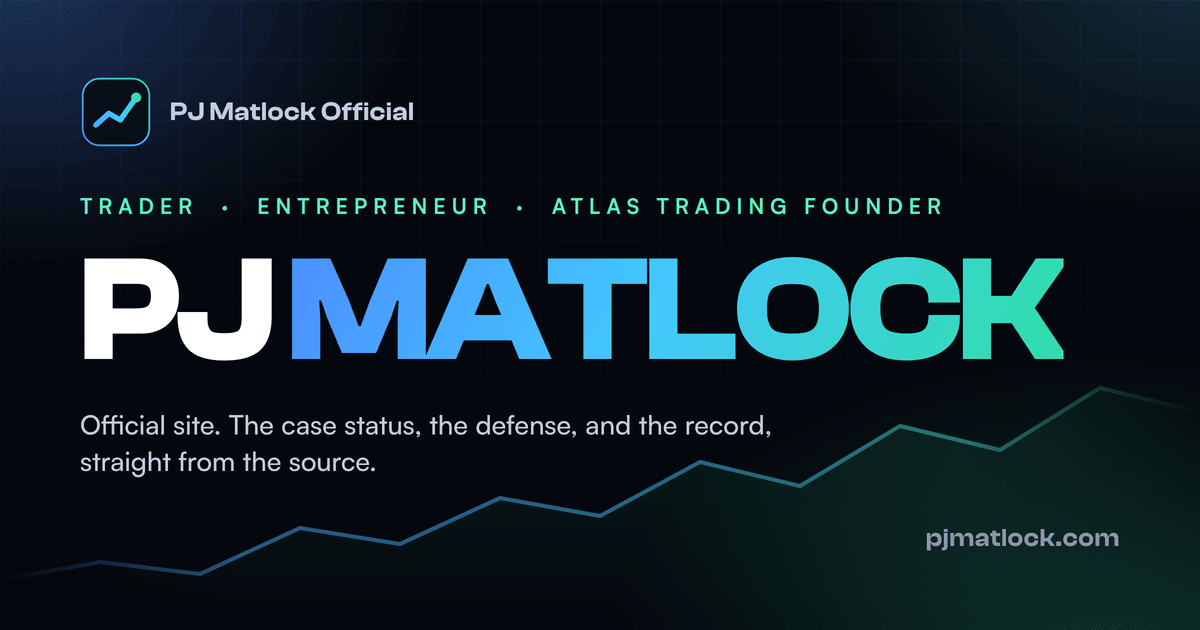
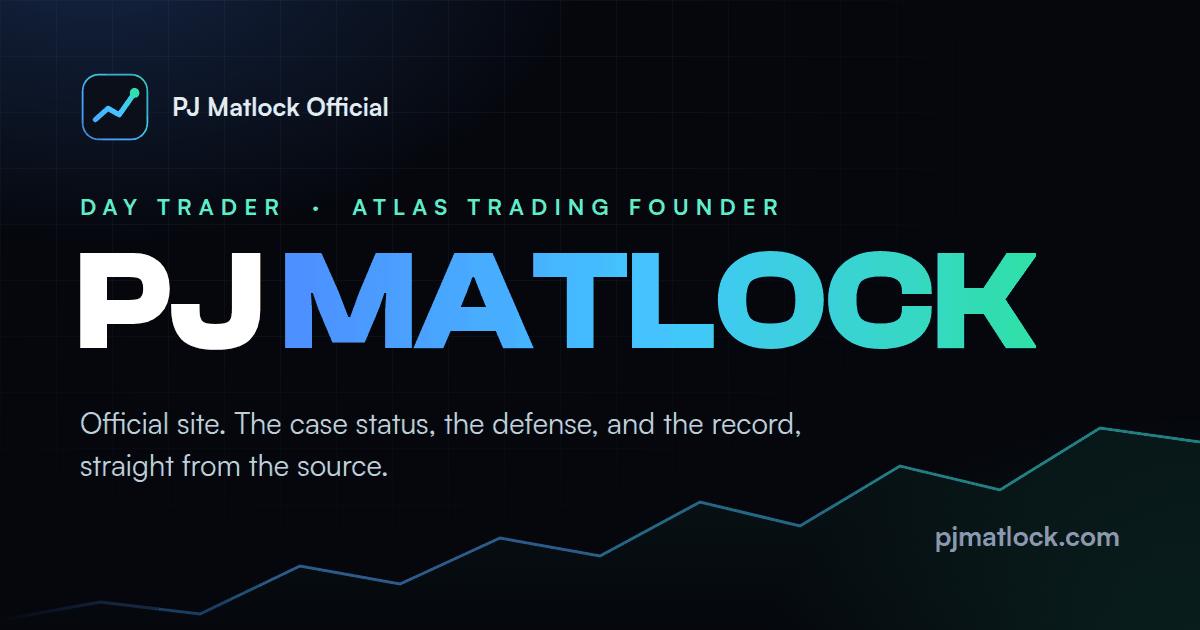
Tone down the About copy, drop the My Story timeline, refresh share image

diff --git a/index.html b/index.html
@@ -3,9 +3,9 @@
 <head>
   <meta charset="utf-8" />
   <script>document.documentElement.classList.add("js")</script>
-  <title>PJ Matlock - Trader, Entrepreneur, Atlas Trading Founder</title>
+  <title>PJ Matlock - Official Site</title>
   <meta name="viewport" content="width=device-width, initial-scale=1" />
-  <meta name="description" content="PJ Matlock is a trader, entrepreneur, and founder of the Atlas Trading community. Official site with case status updates, social links, and more." />
+  <meta name="description" content="PJ Matlock is a day trader and the founder of the Atlas Trading community. Case status updates and links." />
   <link rel="canonical" href="https://pjmatlock.com/" />
   <meta name="robots" content="index,follow,max-image-preview:large" />
   <meta name="theme-color" content="#05070d" />
@@ -20,21 +20,21 @@
 
   <!-- Open Graph -->
   <meta property="og:title" content="PJ Matlock - Official Site" />
-  <meta property="og:description" content="Trader, entrepreneur, and founder of Atlas Trading. Official site with case updates and links." />
+  <meta property="og:description" content="Day trader and founder of Atlas Trading. Case updates and links." />
   <meta property="og:url" content="https://pjmatlock.com/" />
   <meta property="og:type" content="website" />
   <meta property="og:site_name" content="PJ Matlock Official" />
-  <meta property="og:image" content="https://pjmatlock.com/assets/og.png" />
+  <meta property="og:image" content="https://pjmatlock.com/assets/og.png?v=20261014" />
   <meta property="og:image:width" content="1200" />
   <meta property="og:image:height" content="630" />
-  <meta property="og:image:alt" content="PJ Matlock - Trader, Entrepreneur, Atlas Trading Founder" />
+  <meta property="og:image:alt" content="PJ Matlock - Day Trader, Atlas Trading Founder" />
   <meta name="twitter:card" content="summary_large_image" />
   <meta name="twitter:site" content="@pjmatlock" />
   <meta name="twitter:creator" content="@pjmatlock" />
   <meta name="twitter:title" content="PJ Matlock - Official Site" />
-  <meta name="twitter:description" content="Trader, entrepreneur, and founder of Atlas Trading. Official site with case updates and links." />
-  <meta name="twitter:image" content="https://pjmatlock.com/assets/og.png" />
-  <meta name="twitter:image:alt" content="PJ Matlock - Trader, Entrepreneur, Atlas Trading Founder" />
+  <meta name="twitter:description" content="Day trader and founder of Atlas Trading. Case updates and links." />
+  <meta name="twitter:image" content="https://pjmatlock.com/assets/og.png?v=20261014" />
+  <meta name="twitter:image:alt" content="PJ Matlock - Day Trader, Atlas Trading Founder" />
 
   <!-- Person -->
   <script type="application/ld+json">
@@ -45,13 +45,13 @@
     "name":"Perry \"PJ\" Matlock",
     "alternateName":["PJ Matlock","Perry Matlock"],
     "url":"https://pjmatlock.com/",
-    "image":"https://pjmatlock.com/assets/og.png",
+    "image":"https://pjmatlock.com/assets/og.png?v=20261014",
     "sameAs":[
       "https://x.com/pjmatlock",
       "https://www.instagram.com/pjmatlock/",
       "https://discord.gg/atlastrading"
     ],
-    "description":"Trader, entrepreneur, and founder of the Atlas Trading community."
+    "description":"Day trader and founder of the Atlas Trading community."
   }
   </script>
 
@@ -69,8 +69,8 @@
 
   <link rel="preload" href="/assets/fonts/ClashDisplay-700.woff2" as="font" type="font/woff2" crossorigin />
   <link rel="preload" href="/assets/fonts/Satoshi-400.woff2" as="font" type="font/woff2" crossorigin />
-  <link rel="stylesheet" href="/assets/site.css?v=20261013b" />
-  <script src="/assets/site.js?v=20261013b" defer></script>
+  <link rel="stylesheet" href="/assets/site.css?v=20261014" />
+  <script src="/assets/site.js?v=20261014" defer></script>
 </head>
 <body>
   <a class="skip-link" href="#main">Skip to content</a>
@@ -121,7 +121,7 @@
       <div class="reveal in">
         <div class="eyebrow" style="justify-content:center">Official Site</div>
         <h1>PJ <span class="grad-text">Matlock</span></h1>
-        <p class="tagline">Trader, entrepreneur, and founder of the Atlas Trading community. The official record, in my own words.</p>
+        <p class="tagline">Day trader and founder of the Atlas Trading community. My side of the case, in my own words.</p>
         <div class="social-row">
           <a class="pill discord" href="https://discord.gg/atlastrading" target="_blank" rel="noopener">
             <svg aria-hidden="true" focusable="false" viewBox="0 0 24 24" fill="currentColor"><path d="M20.317 4.37a19.791 19.791 0 0 0-4.885-1.515.074.074 0 0 0-.079.037c-.21.375-.444.864-.608 1.25a18.27 18.27 0 0 0-5.487 0 12.64 12.64 0 0 0-.617-1.25.077.077 0 0 0-.079-.037A19.736 19.736 0 0 0 3.677 4.37a.07.07 0 0 0-.032.027C.533 9.046-.32 13.58.099 18.057a.082.082 0 0 0 .031.057 19.9 19.9 0 0 0 5.993 3.03.078.078 0 0 0 .084-.028 14.09 14.09 0 0 0 1.226-1.994.076.076 0 0 0-.041-.106 13.107 13.107 0 0 1-1.872-.892.077.077 0 0 1-.008-.128 10.2 10.2 0 0 0 .372-.292.074.074 0 0 1 .077-.01c3.928 1.793 8.18 1.793 12.062 0a.074.074 0 0 1 .078.01c.12.098.246.198.373.292a.077.077 0 0 1-.006.127 12.299 12.299 0 0 1-1.873.892.077.077 0 0 0-.041.107c.36.698.772 1.362 1.225 1.993a.076.076 0 0 0 .084.028 19.839 19.839 0 0 0 6.002-3.03.077.077 0 0 0 .032-.054c.5-5.177-.838-9.674-3.549-13.66a.061.061 0 0 0-.031-.03z"/></svg>
@@ -152,7 +152,6 @@
       <div class="reveal">
         <div class="eyebrow">About</div>
         <h2>Who I Am</h2>
-        <p class="section-desc">I built one of the largest retail trading communities on Discord from the ground up.</p>
       </div>
       <div class="feature-grid" style="margin-top:32px">
         <div class="card feature spot reveal" data-delay="0">
@@ -162,60 +161,13 @@
         </div>
         <div class="card feature spot reveal" data-delay=".1">
           <div class="ic"><svg aria-hidden="true" focusable="false" viewBox="0 0 24 24" fill="none" stroke="currentColor" stroke-width="2" stroke-linecap="round" stroke-linejoin="round"><path d="M17 21v-2a4 4 0 0 0-4-4H5a4 4 0 0 0-4 4v2"/><circle cx="9" cy="7" r="4"/><path d="M23 21v-2a4 4 0 0 0-3-3.87"/><path d="M16 3.13a4 4 0 0 1 0 7.75"/></svg></div>
-          <h3>Community Builder</h3>
-          <p>Atlas Trading grew into one of the largest retail trading communities on Discord, built around open discussion among independent traders. No hand-holding, no managed accounts.</p>
+          <h3>Atlas Trading</h3>
+          <p>A Discord community where traders talk through their own ideas. Everyone makes their own calls with their own money.</p>
         </div>
         <div class="card feature spot reveal" data-delay=".2">
           <div class="ic"><svg aria-hidden="true" focusable="false" viewBox="0 0 24 24" fill="none" stroke="currentColor" stroke-width="2" stroke-linecap="round" stroke-linejoin="round"><circle cx="12" cy="12" r="10"/><line x1="2" y1="12" x2="22" y2="12"/><path d="M12 2a15.3 15.3 0 0 1 4 10 15.3 15.3 0 0 1-4 10 15.3 15.3 0 0 1-4-10 15.3 15.3 0 0 1 4-10z"/></svg></div>
-          <h3>Entrepreneur</h3>
-          <p>Building products and businesses. I think for myself, take risks, and back it up with action.</p>
-        </div>
-      </div>
-    </section>
-
-    <!-- My Story -->
-    <section class="section tight timeline" aria-label="My story">
-      <div class="reveal">
-        <div class="eyebrow">My Story</div>
-        <h2>The Short Version</h2>
-      </div>
-      <div class="tl-items" style="margin-top:32px">
-        <div class="tl-track"><div class="tl-fill"></div></div>
-
-        <div class="tl-item green">
-          <div class="tl-dot"></div>
-          <div class="tl-card">
-            <div class="tl-date">Early Days</div>
-            <div class="tl-title">A Trader First</div>
-            <div class="tl-desc">I started day trading U.S. stocks with my own account. My own money, my own risk, my own decisions. That has never changed.</div>
-          </div>
-        </div>
-
-        <div class="tl-item">
-          <div class="tl-dot"></div>
-          <div class="tl-card">
-            <div class="tl-date">Atlas Trading</div>
-            <div class="tl-title">Building the Community</div>
-            <div class="tl-desc">I founded Atlas Trading and built it from the ground up into one of the largest retail trading communities on Discord: open discussion among independent traders, no hand-holding, no managed accounts.</div>
-          </div>
-        </div>
-
-        <div class="tl-item">
-          <div class="tl-dot"></div>
-          <div class="tl-card">
-            <div class="tl-date">Entrepreneurship</div>
-            <div class="tl-title">Trading Led to Building</div>
-            <div class="tl-desc">Products, businesses, and tools I wanted to exist. I think for myself, take risks, and back it up with action.</div>
-          </div>
-        </div>
-
-        <div class="tl-item amber">
-          <div class="tl-dot"></div>
-          <div class="tl-card">
-            <div class="tl-date">Today</div>
-            <div class="tl-title">Still Here</div>
-            <div class="tl-desc">I trade, I build, and I am fighting the government's case against me in court. The full story, in my own words, is on the <a href="/case-status/">Case Status</a> page.</div>
-          </div>
+          <h3>Other Work</h3>
+          <p>Outside of trading, I work on products and businesses.</p>
         </div>
       </div>
     </section>
@@ -317,7 +269,7 @@
         <p>
           I maintain my innocence and I will fight this in court. The government's theory turns ordinary market speech into a federal crime. That should concern every person who participates in public markets, posts about stocks online, or believes that sharing an opinion is not a felony. The facts and the law are on my side, and when this case is fully litigated, I believe that will be clear.
         </p>
-        <div class="attrib">PJ Matlock <span class="attrib-role">/ Founder, Atlas Trading</span></div>
+        <div class="attrib">PJ Matlock</div>
       </div>
     </section>
 

diff --git a/case-status/index.html b/case-status/index.html
@@ -48,13 +48,13 @@
     "name":"Perry \"PJ\" Matlock",
     "alternateName":["PJ Matlock","Perry Matlock"],
     "url":"https://pjmatlock.com/",
-    "image":"https://pjmatlock.com/assets/og.png",
+    "image":"https://pjmatlock.com/assets/og.png?v=20261014",
     "sameAs":[
       "https://x.com/pjmatlock",
       "https://www.instagram.com/pjmatlock/",
       "https://discord.gg/atlastrading"
     ],
-    "description":"Trader, entrepreneur, and founder of the Atlas Trading community."
+    "description":"Day trader and founder of the Atlas Trading community."
   }
   </script>
 
@@ -125,15 +125,15 @@
     {"@type":"Question","name":"What did the Fifth Circuit actually decide?","acceptedAnswer":{"@type":"Answer","text":"<p>The Fifth Circuit's October 2025 decision was narrow. It addressed the \"money or property\" element of the securities fraud statute (18 U.S.C. \u00a7 1348), relying on the Supreme Court's decision in Kousisis v. United States. The court held that, at the pleading stage, the indictment adequately alleged that element.</p><p>The court did not rule on materiality, falsity, or scienter (criminal intent). Those are the core issues in this case and they remain unresolved. The Fifth Circuit's decision simply means the indictment can proceed past the pleading stage. It says nothing about whether the government can actually prove its case.</p>"}},
     {"@type":"Question","name":"What does PJ Matlock trade?","acceptedAnswer":{"@type":"Answer","text":"<p>PJ Matlock primarily trades U.S. equities, options, futures, and some cryptocurrency, with day trading as the focus. Nothing he posts is financial advice. He does not manage money for others and has never traded on behalf of other people.</p>"}},
     {"@type":"Question","name":"Was there a whistleblower?","acceptedAnswer":{"@type":"Answer","text":"<p>Some reporting has used the term \"whistleblower.\" PJ Matlock is not aware of any whistleblower who had direct contact with him, and he had no relationship with any such person.</p>"}},
-    {"@type":"Question","name":"Atlas Trading Discord","acceptedAnswer":{"@type":"Answer","text":"<p>Atlas Trading is PJ Matlock's community and one of the largest retail trading communities on Discord. Real traders, real discussion. Invite link: <a href=\"https://discord.gg/atlastrading\">discord.gg/atlastrading</a></p>"}}
+    {"@type":"Question","name":"Atlas Trading Discord","acceptedAnswer":{"@type":"Answer","text":"<p>Atlas Trading is PJ Matlock's Discord community, where traders talk through their own ideas. Invite link: <a href=\"https://discord.gg/atlastrading\">discord.gg/atlastrading</a></p>"}}
    ]
   }
   </script>
 
   <link rel="preload" href="/assets/fonts/ClashDisplay-700.woff2" as="font" type="font/woff2" crossorigin />
   <link rel="preload" href="/assets/fonts/Satoshi-400.woff2" as="font" type="font/woff2" crossorigin />
-  <link rel="stylesheet" href="/assets/site.css?v=20261013b" />
-  <script src="/assets/site.js?v=20261013b" defer></script>
+  <link rel="stylesheet" href="/assets/site.css?v=20261014" />
+  <script src="/assets/site.js?v=20261014" defer></script>
 </head>
 <body>
   <a class="skip-link" href="#main">Skip to content</a>
@@ -560,7 +560,7 @@
           <svg class="faq-chevron" aria-hidden="true" focusable="false" viewBox="0 0 24 24" fill="none" stroke="currentColor" stroke-width="2.5" stroke-linecap="round" stroke-linejoin="round"><polyline points="6 9 12 15 18 9"/></svg>
         </button>
         <div class="faq-a"><div class="faq-a-inner"><div>
-          <p>Atlas Trading is PJ Matlock's community and one of the largest retail trading communities on Discord. Real traders, real discussion. Invite link: <a href="https://discord.gg/atlastrading" target="_blank" rel="noopener">discord.gg/atlastrading</a></p>
+          <p>Atlas Trading is PJ Matlock's Discord community, where traders talk through their own ideas. Invite link: <a href="https://discord.gg/atlastrading" target="_blank" rel="noopener">discord.gg/atlastrading</a></p>
         </div></div></div>
       </div>
     </section>

diff --git a/assets/site.css b/assets/site.css
@@ -407,7 +407,6 @@ body > nav, .site-header nav {
 .quote::before { content: ''; position: absolute; top: 40px; bottom: 40px; left: 0; width: 3px; background: linear-gradient(180deg, var(--blue), var(--green)); border-radius: 0 2px 2px 0; }
 .quote p { font-family: var(--font-display); font-size: clamp(1.2rem, 2.6vw, 1.55rem); color: var(--ink); max-width: none; margin: 0; line-height: 1.5; font-weight: 500; position: relative; }
 .quote .attrib { margin-top: 22px; font-size: .78rem; font-weight: 700; letter-spacing: .18em; text-transform: uppercase; color: var(--muted); }
-.quote .attrib .attrib-role { font-weight: 500; }
 @media (max-width: 720px) { .quote { padding: 34px 28px; } }
 
 /* ----------------------------------------------------------------

diff --git a/404.html b/404.html
@@ -18,8 +18,8 @@
 
   <link rel="preload" href="/assets/fonts/ClashDisplay-700.woff2" as="font" type="font/woff2" crossorigin />
   <link rel="preload" href="/assets/fonts/Satoshi-400.woff2" as="font" type="font/woff2" crossorigin />
-  <link rel="stylesheet" href="/assets/site.css?v=20261013b" />
-  <script src="/assets/site.js?v=20261013b" defer></script>
+  <link rel="stylesheet" href="/assets/site.css?v=20261014" />
+  <script src="/assets/site.js?v=20261014" defer></script>
 </head>
 <body>
   <a class="skip-link" href="#main">Skip to content</a>
